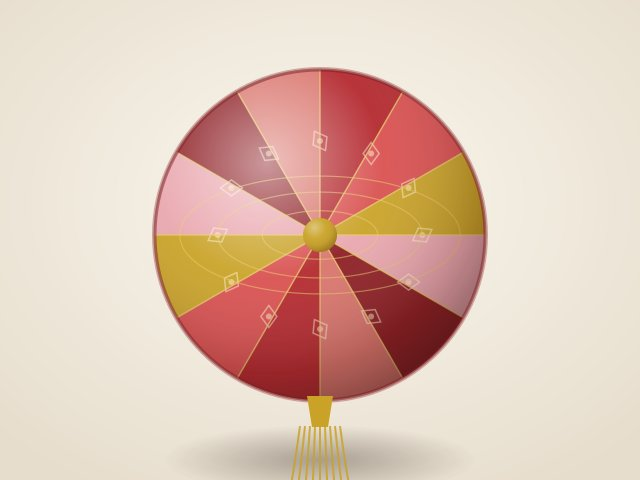
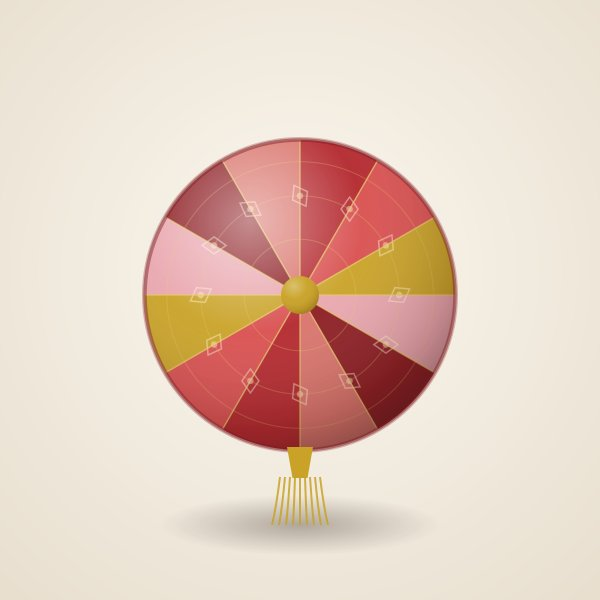
feat(interactive): 互动展厅增加绣球 DIY 入口，绣球图版改为正方形

Changed region(s): [[0.24, 0.125, 0.78, 1.0]]

diff --git a/src/app/[locale]/interactive/InteractiveClient.tsx b/src/app/[locale]/interactive/InteractiveClient.tsx
@@ -129,6 +129,13 @@ export default function InteractiveClient() {
                   {isOpen && (
                     <div id={`game-${game.key}`} className="border-t border-gray-200 dark:border-gray-700 p-6 bg-gray-50 dark:bg-gray-900/40">
                       {game.key === 'embroidery' && (
+                        <div className="mb-3 flex justify-end">
+                          <a href="/diy/embroidery-ball/index.html" target="_blank" rel="noopener noreferrer" className="text-sm font-medium text-purple-600 dark:text-purple-300 hover:underline">
+                            {t('play.diyBall')} ↗
+                          </a>
+                        </div>
+                      )}
+                      {game.key === 'embroidery' && (
                         <EmbroideryToss onComplete={(s) => setBest((b) => ({ ...b, embroidery: Math.max(b.embroidery ?? 0, s) }))} />
                       )}
                       {game.key === 'quiz' && (

diff --git a/src/i18n/dicts/interactiveExtra.ts b/src/i18n/dicts/interactiveExtra.ts
@@ -21,6 +21,7 @@ export const zh: Dict = {
   'play.start': '开始玩',
   'play.close': '关闭',
   'play.restart': '重新开始',
+  'play.diyBall': '自己做一个绣球',
   'play.next': '下一个',
   'play.finish': '完成',
   'play.score': '得分',
@@ -139,6 +140,7 @@ export const en: Dict = {
   'play.start': 'Play',
   'play.close': 'Close',
   'play.restart': 'Restart',
+  'play.diyBall': 'Make your own ball',
   'play.next': 'Next',
   'play.finish': 'Finish',
   'play.score': 'Score',
